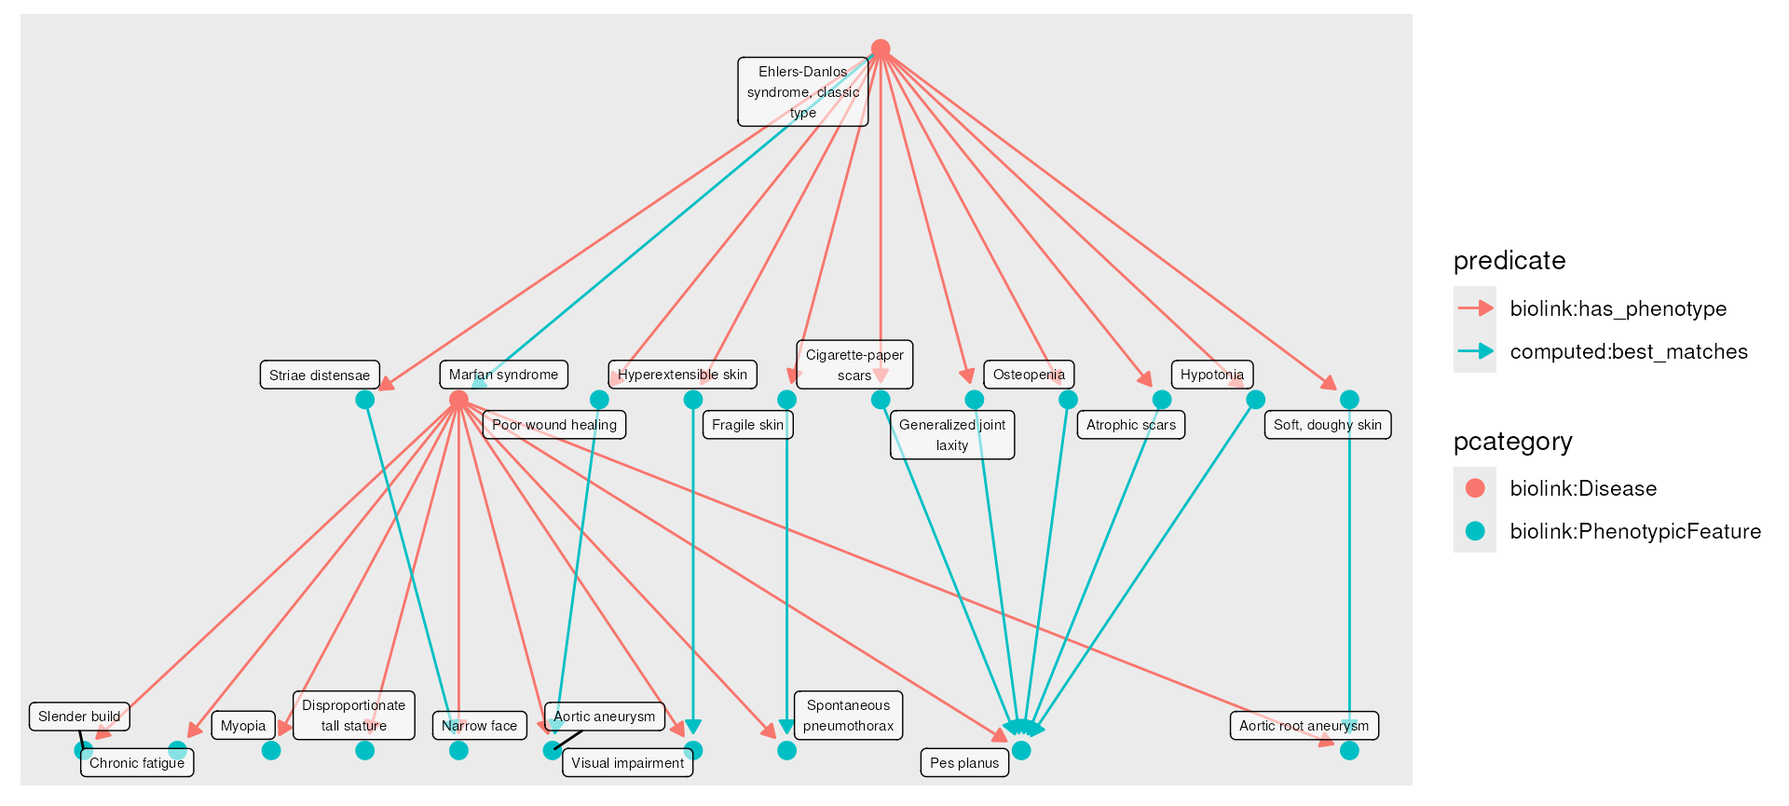
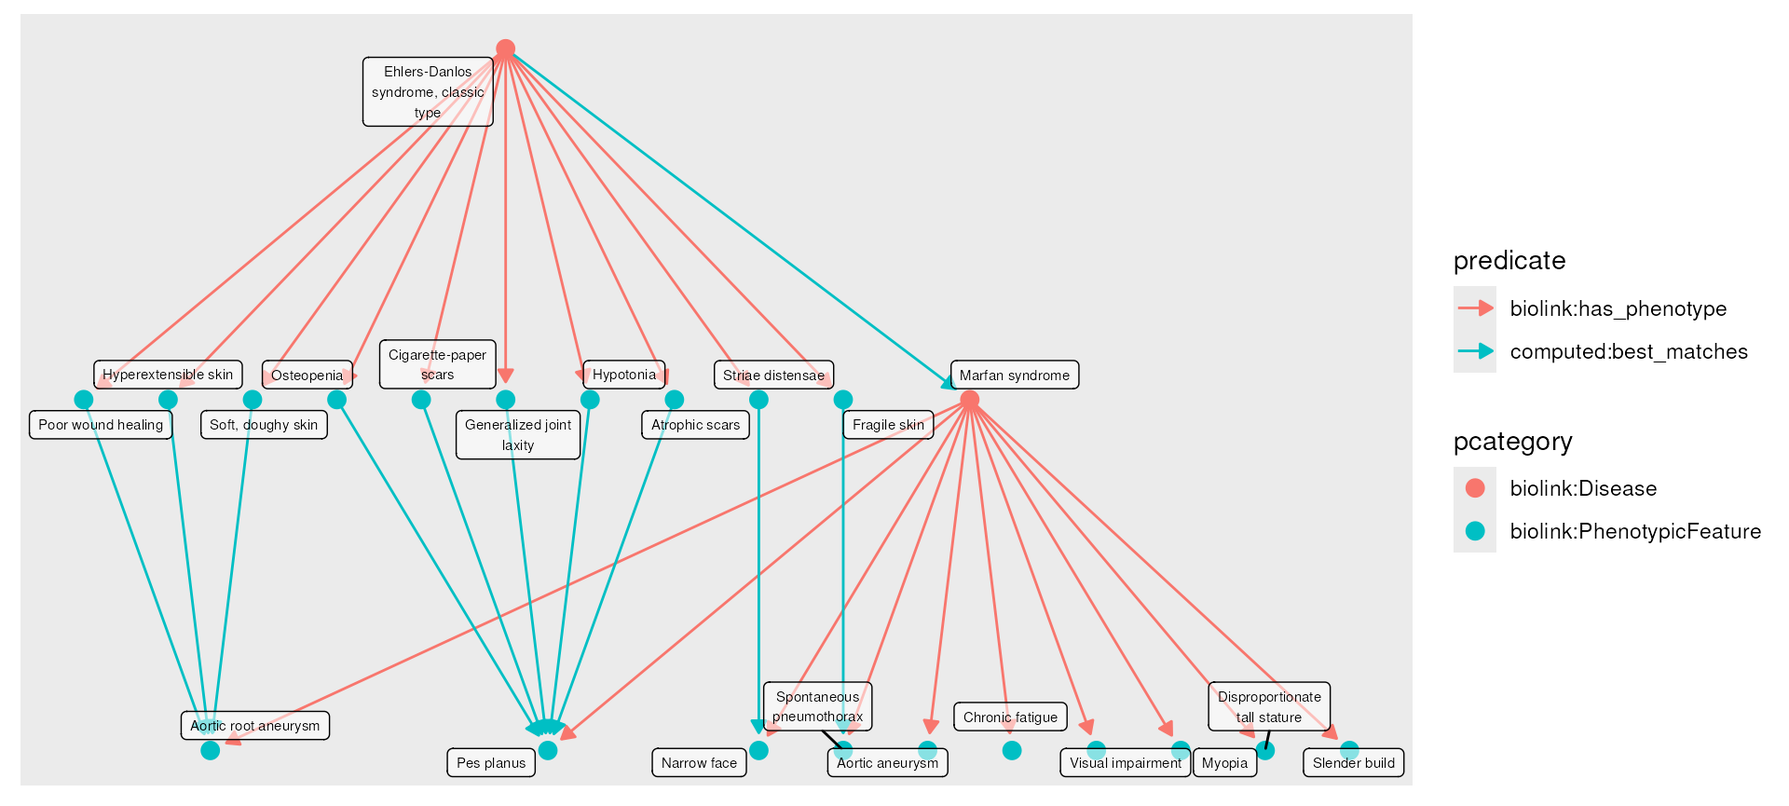
Deploying to gh-pages from @ monarch-initiative/monarchr@0c566622105d5b29ee82648d0202803ad11508b7 🚀

diff --git a/reference/monarch_semsim.html b/reference/monarch_semsim.html
@@ -49,7 +49,7 @@ https://monarchinitiative.org/explore#phenotype-explorer."><!-- mathjax --><scri
   <div class="col-md-9 contents">
     <div class="page-header">
     <h1>Semantic similarity mapping between two graphs</h1>
-    <small class="dont-index">Source: <a href="https://github.com/monarch-initiative/monarchr/blob/engines/R/monarch_semsim.R" class="external-link"><code>R/monarch_semsim.R</code></a></small>
+    <small class="dont-index">Source: <a href="https://github.com/monarch-initiative/monarchr/blob/main/R/monarch_semsim.R" class="external-link"><code>R/monarch_semsim.R</code></a></small>
     <div class="hidden name"><code>monarch_semsim.Rd</code></div>
     </div>
 
@@ -136,11 +136,11 @@ the best matches from the second graph to the first graph.</p>
 <span class="r-msg co"><span class="r-pr">#&gt;</span> Joining with `by = join_by(id, category, pcategory, name, description, synonym,</span>
 <span class="r-msg co"><span class="r-pr">#&gt;</span> iri, xref, namespace, provided_by)`</span>
 <span class="r-in"><span><span class="fu"><a href="https://rdrr.io/r/base/print.html" class="external-link">print</a></span><span class="op">(</span><span class="va">sim</span><span class="op">)</span></span></span>
-<span class="r-out co"><span class="r-pr">#&gt;</span> <span style="color: #949494;"># A tbl_graph: 132 nodes and 106 edges</span></span>
+<span class="r-out co"><span class="r-pr">#&gt;</span> <span style="color: #949494;"># A tbl_graph: 130 nodes and 106 edges</span></span>
 <span class="r-out co"><span class="r-pr">#&gt;</span> <span style="color: #949494;">#</span></span>
-<span class="r-out co"><span class="r-pr">#&gt;</span> <span style="color: #949494;"># A directed multigraph with 38 components</span></span>
+<span class="r-out co"><span class="r-pr">#&gt;</span> <span style="color: #949494;"># A directed multigraph with 36 components</span></span>
 <span class="r-out co"><span class="r-pr">#&gt;</span> <span style="color: #949494;">#</span></span>
-<span class="r-out co"><span class="r-pr">#&gt;</span> <span style="color: #949494;"># Node Data: 132 × 10 (active)</span></span>
+<span class="r-out co"><span class="r-pr">#&gt;</span> <span style="color: #949494;"># Node Data: 130 × 10 (active)</span></span>
 <span class="r-out co"><span class="r-pr">#&gt;</span>    id         pcategory name  description synonym category iri   xref  namespace</span>
 <span class="r-out co"><span class="r-pr">#&gt;</span>    <span style="color: #949494; font-style: italic;">&lt;chr&gt;</span>      <span style="color: #949494; font-style: italic;">&lt;chr&gt;</span>     <span style="color: #949494; font-style: italic;">&lt;chr&gt;</span> <span style="color: #949494; font-style: italic;">&lt;chr&gt;</span>       <span style="color: #949494; font-style: italic;">&lt;named&gt;</span> <span style="color: #949494; font-style: italic;">&lt;list&gt;</span>   <span style="color: #949494; font-style: italic;">&lt;chr&gt;</span> <span style="color: #949494; font-style: italic;">&lt;nam&gt;</span> <span style="color: #949494; font-style: italic;">&lt;chr&gt;</span>    </span>
 <span class="r-out co"><span class="r-pr">#&gt;</span> <span style="color: #BCBCBC;"> 1</span> MONDO:000… biolink:… Marf… A disorder… <span style="color: #949494;">&lt;chr&gt;</span>   <span style="color: #949494;">&lt;chr&gt;</span>    http… <span style="color: #949494;">&lt;chr&gt;</span> MONDO    </span>
@@ -153,15 +153,15 @@ the best matches from the second graph to the first graph.</p>
 <span class="r-out co"><span class="r-pr">#&gt;</span> <span style="color: #BCBCBC;"> 8</span> HP:0012432 biolink:… Chro… Subjective… <span style="color: #949494;">&lt;chr&gt;</span>   <span style="color: #949494;">&lt;chr&gt;</span>    http… <span style="color: #949494;">&lt;chr&gt;</span> HP       </span>
 <span class="r-out co"><span class="r-pr">#&gt;</span> <span style="color: #BCBCBC;"> 9</span> HP:0000275 biolink:… Narr… Bizygomati… <span style="color: #949494;">&lt;chr&gt;</span>   <span style="color: #949494;">&lt;chr&gt;</span>    http… <span style="color: #949494;">&lt;chr&gt;</span> HP       </span>
 <span class="r-out co"><span class="r-pr">#&gt;</span> <span style="color: #BCBCBC;">10</span> HP:0000505 biolink:… Visu… Visual imp… <span style="color: #949494;">&lt;chr&gt;</span>   <span style="color: #949494;">&lt;chr&gt;</span>    http… <span style="color: #949494;">&lt;chr&gt;</span> HP       </span>
-<span class="r-out co"><span class="r-pr">#&gt;</span> <span style="color: #949494;"># ℹ 122 more rows</span></span>
+<span class="r-out co"><span class="r-pr">#&gt;</span> <span style="color: #949494;"># ℹ 120 more rows</span></span>
 <span class="r-out co"><span class="r-pr">#&gt;</span> <span style="color: #949494;"># ℹ 1 more variable: provided_by &lt;named list&gt;</span></span>
 <span class="r-out co"><span class="r-pr">#&gt;</span> <span style="color: #949494;">#</span></span>
 <span class="r-out co"><span class="r-pr">#&gt;</span> <span style="color: #949494;"># Edge Data: 106 × 8</span></span>
 <span class="r-out co"><span class="r-pr">#&gt;</span>    from    to subject    predicate             object   metric score ancestor_id</span>
 <span class="r-out co"><span class="r-pr">#&gt;</span>   <span style="color: #949494; font-style: italic;">&lt;int&gt;</span> <span style="color: #949494; font-style: italic;">&lt;int&gt;</span> <span style="color: #949494; font-style: italic;">&lt;chr&gt;</span>      <span style="color: #949494; font-style: italic;">&lt;chr&gt;</span>                 <span style="color: #949494; font-style: italic;">&lt;chr&gt;</span>    <span style="color: #949494; font-style: italic;">&lt;chr&gt;</span>  <span style="color: #949494; font-style: italic;">&lt;dbl&gt;</span> <span style="color: #949494; font-style: italic;">&lt;chr&gt;</span>      </span>
-<span class="r-out co"><span class="r-pr">#&gt;</span> <span style="color: #BCBCBC;">1</span>   106   125 HP:0000006 computed:best_matches HP:0003… ances…  4.10 HP:0000001 </span>
+<span class="r-out co"><span class="r-pr">#&gt;</span> <span style="color: #BCBCBC;">1</span>   106   128 HP:0000006 computed:best_matches HP:0025… ances…  4.10 HP:0000001 </span>
 <span class="r-out co"><span class="r-pr">#&gt;</span> <span style="color: #BCBCBC;">2</span>    33    33 HP:0000023 computed:best_matches HP:0000… ances… 18.2  HP:0000023 </span>
-<span class="r-out co"><span class="r-pr">#&gt;</span> <span style="color: #BCBCBC;">3</span>    85   114 HP:0000098 computed:best_matches HP:0000… ances…  5.96 UPHENO:006…</span>
+<span class="r-out co"><span class="r-pr">#&gt;</span> <span style="color: #BCBCBC;">3</span>    85   113 HP:0000098 computed:best_matches HP:0000… ances…  5.96 UPHENO:006…</span>
 <span class="r-out co"><span class="r-pr">#&gt;</span> <span style="color: #949494;"># ℹ 103 more rows</span></span>
 <span class="r-in"><span></span></span>
 <span class="r-in"><span><span class="co"># also inclue the unmatched targets</span></span></span>
@@ -192,7 +192,7 @@ the best matches from the second graph to the first graph.</p>
 <span class="r-out co"><span class="r-pr">#&gt;</span> <span style="color: #949494;"># Edge Data: 106 × 8</span></span>
 <span class="r-out co"><span class="r-pr">#&gt;</span>    from    to subject    predicate             object   metric score ancestor_id</span>
 <span class="r-out co"><span class="r-pr">#&gt;</span>   <span style="color: #949494; font-style: italic;">&lt;int&gt;</span> <span style="color: #949494; font-style: italic;">&lt;int&gt;</span> <span style="color: #949494; font-style: italic;">&lt;chr&gt;</span>      <span style="color: #949494; font-style: italic;">&lt;chr&gt;</span>                 <span style="color: #949494; font-style: italic;">&lt;chr&gt;</span>    <span style="color: #949494; font-style: italic;">&lt;chr&gt;</span>  <span style="color: #949494; font-style: italic;">&lt;dbl&gt;</span> <span style="color: #949494; font-style: italic;">&lt;chr&gt;</span>      </span>
-<span class="r-out co"><span class="r-pr">#&gt;</span> <span style="color: #BCBCBC;">1</span>   106   132 HP:0000006 computed:best_matches HP:0001… ances…  4.10 HP:0000001 </span>
+<span class="r-out co"><span class="r-pr">#&gt;</span> <span style="color: #BCBCBC;">1</span>   106   129 HP:0000006 computed:best_matches HP:0001… ances…  4.10 HP:0000001 </span>
 <span class="r-out co"><span class="r-pr">#&gt;</span> <span style="color: #BCBCBC;">2</span>    33    33 HP:0000023 computed:best_matches HP:0000… ances… 18.2  HP:0000023 </span>
 <span class="r-out co"><span class="r-pr">#&gt;</span> <span style="color: #BCBCBC;">3</span>    85   125 HP:0000098 computed:best_matches HP:0000… ances…  5.96 UPHENO:006…</span>
 <span class="r-out co"><span class="r-pr">#&gt;</span> <span style="color: #949494;"># ℹ 103 more rows</span></span>
@@ -204,7 +204,7 @@ the best matches from the second graph to the first graph.</p>
 <span class="r-in"><span><span class="fu"><a href="https://rdrr.io/r/base/print.html" class="external-link">print</a></span><span class="op">(</span><span class="va">sim</span><span class="op">)</span></span></span>
 <span class="r-out co"><span class="r-pr">#&gt;</span> <span style="color: #949494;"># A tbl_graph: 161 nodes and 173 edges</span></span>
 <span class="r-out co"><span class="r-pr">#&gt;</span> <span style="color: #949494;">#</span></span>
-<span class="r-out co"><span class="r-pr">#&gt;</span> <span style="color: #949494;"># A directed multigraph with 27 components</span></span>
+<span class="r-out co"><span class="r-pr">#&gt;</span> <span style="color: #949494;"># A directed multigraph with 28 components</span></span>
 <span class="r-out co"><span class="r-pr">#&gt;</span> <span style="color: #949494;">#</span></span>
 <span class="r-out co"><span class="r-pr">#&gt;</span> <span style="color: #949494;"># Node Data: 161 × 10 (active)</span></span>
 <span class="r-out co"><span class="r-pr">#&gt;</span>    id         pcategory name  description synonym category iri   xref  namespace</span>
@@ -225,7 +225,7 @@ the best matches from the second graph to the first graph.</p>
 <span class="r-out co"><span class="r-pr">#&gt;</span> <span style="color: #949494;"># Edge Data: 173 × 8</span></span>
 <span class="r-out co"><span class="r-pr">#&gt;</span>    from    to subject    predicate             object   metric score ancestor_id</span>
 <span class="r-out co"><span class="r-pr">#&gt;</span>   <span style="color: #949494; font-style: italic;">&lt;int&gt;</span> <span style="color: #949494; font-style: italic;">&lt;int&gt;</span> <span style="color: #949494; font-style: italic;">&lt;chr&gt;</span>      <span style="color: #949494; font-style: italic;">&lt;chr&gt;</span>                 <span style="color: #949494; font-style: italic;">&lt;chr&gt;</span>    <span style="color: #949494; font-style: italic;">&lt;chr&gt;</span>  <span style="color: #949494; font-style: italic;">&lt;dbl&gt;</span> <span style="color: #949494; font-style: italic;">&lt;chr&gt;</span>      </span>
-<span class="r-out co"><span class="r-pr">#&gt;</span> <span style="color: #BCBCBC;">1</span>   106   128 HP:0000006 computed:best_matches HP:0000… ances…  4.10 HP:0000001 </span>
+<span class="r-out co"><span class="r-pr">#&gt;</span> <span style="color: #BCBCBC;">1</span>   106   131 HP:0000006 computed:best_matches HP:0001… ances…  4.10 HP:0000001 </span>
 <span class="r-out co"><span class="r-pr">#&gt;</span> <span style="color: #BCBCBC;">2</span>    33    33 HP:0000023 computed:best_matches HP:0000… ances… 18.2  HP:0000023 </span>
 <span class="r-out co"><span class="r-pr">#&gt;</span> <span style="color: #BCBCBC;">3</span>    85   125 HP:0000098 computed:best_matches HP:0000… ances…  5.96 UPHENO:006…</span>
 <span class="r-out co"><span class="r-pr">#&gt;</span> <span style="color: #949494;"># ℹ 170 more rows</span></span>

diff --git a/articles/monarchr.html b/articles/monarchr.html
@@ -78,7 +78,7 @@ O’Neil</h4>
 Vignette updated: <i>Jul-22-2024</i><br>
 </h4></h4>
       
-      <small class="dont-index">Source: <a href="https://github.com/monarch-initiative/monarchr/blob/engines/vignettes/monarchr.Rmd" class="external-link"><code>vignettes/monarchr.Rmd</code></a></small>
+      <small class="dont-index">Source: <a href="https://github.com/monarch-initiative/monarchr/blob/main/vignettes/monarchr.Rmd" class="external-link"><code>vignettes/monarchr.Rmd</code></a></small>
       <div class="hidden name"><code>monarchr.Rmd</code></div>
 
     </div>
@@ -5774,7 +5774,7 @@ containing only computed <code>"computed:best_matches"</code> edges:</p>
 <div class="section level4">
 <h4 id="nodes-6">Nodes<a class="anchor" aria-label="anchor" href="#nodes-6"></a>
 </h4>
-Showing 18 of 18 nodes:
+Showing 16 of 16 nodes:
 <div style="max-height: 400px;overflow-y: auto;border-left: 1px solid #ddd;border-right:  1px solid #ddd;border-bottom: 1px solid #ddd;">
 <table class="table table table-striped table-hover table-condensed" style="margin-left: auto; margin-right: auto;">
 <thead><tr>
@@ -6385,48 +6385,6 @@ c(“SNOMEDCT_US:251036003”, “UMLS:C0238669”)
 </tr>
 <tr>
 <td style="text-align:left;">
-“HP:0004942”
-</td>
-<td style="text-align:left;">
-“biolink:PhenotypicFeature”
-</td>
-<td style="text-align:left;">
-“Aortic aneurysm”
-</td>
-<td style="text-align:left;min-width: 300px; ">
-“Aortic dilatation refers to a dimension that is greater than the 95th
-percentile for the normal person age, sex and body size. In contrast, an
-aneurysm is defined as a localized dilation of the aorta that is more
-than 150 percent of predicted (ratio of observed to expected diameter
-1.5 or more). Aneurysm should be distinguished from ectasia, which
-represents a diffuse dilation of the aorta less than 50 percent of
-normal aorta diameter.”
-</td>
-<td style="text-align:left;min-width: 300px; ">
-c(“Aortic dilatation”, “Bulge in wall of large artery that carries blood
-away from heart”)
-</td>
-<td style="text-align:left;">
-c(“biolink:BiologicalEntity”, “biolink:DiseaseOrPhenotypicFeature”,
-“biolink:Entity”, “biolink:NamedThing”, “biolink:PhenotypicFeature”,
-“biolink:ThingWithTaxon”)
-</td>
-<td style="text-align:left;">
-“<a href="http://purl.obolibrary.org/obo/HP_0004942" class="external-link uri">http://purl.obolibrary.org/obo/HP_0004942</a>”
-</td>
-<td style="text-align:left;">
-c(“Fyler:2301”, “Fyler:2708”, “MSH:D001014”, “SNOMEDCT_US:67362008”,
-“UMLS:C0003486”)
-</td>
-<td style="text-align:left;">
-“HP”
-</td>
-<td style="text-align:left;">
-“phenio_nodes”
-</td>
-</tr>
-<tr>
-<td style="text-align:left;">
 “HP:0000275”
 </td>
 <td style="text-align:left;">
@@ -6458,48 +6416,6 @@ c(“biolink:BiologicalEntity”, “biolink:DiseaseOrPhenotypicFeature”,
 </td>
 <td style="text-align:left;">
 c(“UMLS:C1837463”, “UMLS:C1849121”)
-</td>
-<td style="text-align:left;">
-“HP”
-</td>
-<td style="text-align:left;">
-“phenio_nodes”
-</td>
-</tr>
-<tr>
-<td style="text-align:left;">
-“HP:0000505”
-</td>
-<td style="text-align:left;">
-“biolink:PhenotypicFeature”
-</td>
-<td style="text-align:left;">
-“Visual impairment”
-</td>
-<td style="text-align:left;min-width: 300px; ">
-“Visual impairment (or vision impairment) is vision loss (of a person)
-to such a degree as to qualify as an additional support need through a
-significant limitation of visual capability resulting from either
-disease, trauma, or congenital or degenerative conditions that cannot be
-corrected by conventional means, such as refractive correction,
-medication, or surgery.”
-</td>
-<td style="text-align:left;min-width: 300px; ">
-c(“Impaired vision”, “Loss of eyesight”, “Poor vision”, “Visual
-impairment”)
-</td>
-<td style="text-align:left;">
-c(“biolink:BiologicalEntity”, “biolink:DiseaseOrPhenotypicFeature”,
-“biolink:Entity”, “biolink:NamedThing”, “biolink:PhenotypicFeature”,
-“biolink:ThingWithTaxon”)
-</td>
-<td style="text-align:left;">
-“<a href="http://purl.obolibrary.org/obo/HP_0000505" class="external-link uri">http://purl.obolibrary.org/obo/HP_0000505</a>”
-</td>
-<td style="text-align:left;">
-c(“MSH:D014786”, “MSH:D015354”, “SNOMEDCT_US:246635007”,
-“SNOMEDCT_US:397540003”, “SNOMEDCT_US:7973008”, “UMLS:C0042798”,
-“UMLS:C3665347”)
 </td>
 <td style="text-align:left;">
 “HP”
@@ -6576,7 +6492,7 @@ ancestor_id
 2
 </td>
 <td style="text-align:left;">
-18
+15
 </td>
 <td style="text-align:left;">
 “HP:0000974”
@@ -6585,7 +6501,7 @@ ancestor_id
 “computed:best_matches”
 </td>
 <td style="text-align:left;">
-“HP:0000505”
+“HP:0002616”
 </td>
 <td style="text-align:left;">
 “ancestor_information_content”
@@ -6654,7 +6570,7 @@ ancestor_id
 10
 </td>
 <td style="text-align:left;">
-16
+15
 </td>
 <td style="text-align:left;">
 “HP:0001058”
@@ -6663,7 +6579,7 @@ ancestor_id
 “computed:best_matches”
 </td>
 <td style="text-align:left;">
-“HP:0004942”
+“HP:0002616”
 </td>
 <td style="text-align:left;">
 “ancestor_information_content”
@@ -6680,7 +6596,7 @@ ancestor_id
 5
 </td>
 <td style="text-align:left;">
-17
+16
 </td>
 <td style="text-align:left;">
 “HP:0001065”

diff --git a/reference/monarch_engine.html b/reference/monarch_engine.html
@@ -48,7 +48,7 @@ graph objects."><!-- mathjax --><script src="https://cdnjs.cloudflare.com/ajax/l
   <div class="col-md-9 contents">
     <div class="page-header">
     <h1>Create a knowledge graph engine object backed by the public Monarch Neo4j instance</h1>
-    <small class="dont-index">Source: <a href="https://github.com/monarch-initiative/monarchr/blob/engines/R/monarch_engine.R" class="external-link"><code>R/monarch_engine.R</code></a></small>
+    <small class="dont-index">Source: <a href="https://github.com/monarch-initiative/monarchr/blob/main/R/monarch_engine.R" class="external-link"><code>R/monarch_engine.R</code></a></small>
     <div class="hidden name"><code>monarch_engine.Rd</code></div>
     </div>
 

diff --git a/reference/summarize_neighborhood.html b/reference/summarize_neighborhood.html
@@ -51,7 +51,7 @@ graph's collective neighborhood in the larger KG."><!-- mathjax --><script src="
   <div class="col-md-9 contents">
     <div class="page-header">
     <h1>Summarize neighborhood</h1>
-    <small class="dont-index">Source: <a href="https://github.com/monarch-initiative/monarchr/blob/engines/R/summarize_neighborhood.R" class="external-link"><code>R/summarize_neighborhood.R</code></a></small>
+    <small class="dont-index">Source: <a href="https://github.com/monarch-initiative/monarchr/blob/main/R/summarize_neighborhood.R" class="external-link"><code>R/summarize_neighborhood.R</code></a></small>
     <div class="hidden name"><code>summarize_neighborhood.Rd</code></div>
     </div>
 

diff --git a/reference/monarch_search.html b/reference/monarch_search.html
@@ -49,7 +49,7 @@ It returns nodes (no edges) from the Monarch KG, fetched via an instance of mona
   <div class="col-md-9 contents">
     <div class="page-header">
     <h1>Search for KG nodes using the Monarch Initiative search API</h1>
-    <small class="dont-index">Source: <a href="https://github.com/monarch-initiative/monarchr/blob/engines/R/monarch_search.R" class="external-link"><code>R/monarch_search.R</code></a></small>
+    <small class="dont-index">Source: <a href="https://github.com/monarch-initiative/monarchr/blob/main/R/monarch_search.R" class="external-link"><code>R/monarch_search.R</code></a></small>
     <div class="hidden name"><code>monarch_search.Rd</code></div>
     </div>
 

diff --git a/reference/stitch_vectors.html b/reference/stitch_vectors.html
@@ -50,7 +50,7 @@ scalar strings"><!-- mathjax --><script src="https://cdnjs.cloudflare.com/ajax/l
   <div class="col-md-9 contents">
     <div class="page-header">
     <h1>Stitch Vectors</h1>
-    <small class="dont-index">Source: <a href="https://github.com/monarch-initiative/monarchr/blob/engines/R/cypher_query.neo4j_engine.R" class="external-link"><code>R/cypher_query.neo4j_engine.R</code></a></small>
+    <small class="dont-index">Source: <a href="https://github.com/monarch-initiative/monarchr/blob/main/R/cypher_query.neo4j_engine.R" class="external-link"><code>R/cypher_query.neo4j_engine.R</code></a></small>
     <div class="hidden name"><code>stitch_vectors.Rd</code></div>
     </div>
 

diff --git a/reference/normalize_categories.html b/reference/normalize_categories.html
@@ -48,7 +48,7 @@ It selects the most preferred category from each vector, or the first category i
   <div class="col-md-9 contents">
     <div class="page-header">
     <h1>Normalize Categories</h1>
-    <small class="dont-index">Source: <a href="https://github.com/monarch-initiative/monarchr/blob/engines/R/normalize_categories.R" class="external-link"><code>R/normalize_categories.R</code></a></small>
+    <small class="dont-index">Source: <a href="https://github.com/monarch-initiative/monarchr/blob/main/R/normalize_categories.R" class="external-link"><code>R/normalize_categories.R</code></a></small>
     <div class="hidden name"><code>normalize_categories.Rd</code></div>
     </div>
 

diff --git a/reference/neo4j_engine.html b/reference/neo4j_engine.html
@@ -49,7 +49,7 @@ graph objects.'><!-- mathjax --><script src="https://cdnjs.cloudflare.com/ajax/l
   <div class="col-md-9 contents">
     <div class="page-header">
     <h1>Create a knowledge graph engine object for a neo4j database</h1>
-    <small class="dont-index">Source: <a href="https://github.com/monarch-initiative/monarchr/blob/engines/R/neo4j_engine.R" class="external-link"><code>R/neo4j_engine.R</code></a></small>
+    <small class="dont-index">Source: <a href="https://github.com/monarch-initiative/monarchr/blob/main/R/neo4j_engine.R" class="external-link"><code>R/neo4j_engine.R</code></a></small>
     <div class="hidden name"><code>neo4j_engine.Rd</code></div>
     </div>
 

diff --git a/reference/fetch_nodes.html b/reference/fetch_nodes.html
@@ -51,7 +51,7 @@ set of condition expressions are supported, see details."><!-- mathjax --><scrip
   <div class="col-md-9 contents">
     <div class="page-header">
     <h1>Fetch nodes from a graph using a set of IDs or conditions</h1>
-    <small class="dont-index">Source: <a href="https://github.com/monarch-initiative/monarchr/blob/engines/R/fetch_nodes.R" class="external-link"><code>R/fetch_nodes.R</code></a></small>
+    <small class="dont-index">Source: <a href="https://github.com/monarch-initiative/monarchr/blob/main/R/fetch_nodes.R" class="external-link"><code>R/fetch_nodes.R</code></a></small>
     <div class="hidden name"><code>fetch_nodes.Rd</code></div>
     </div>
 

diff --git a/reference/grapes-in_list-grapes.html b/reference/grapes-in_list-grapes.html
@@ -48,7 +48,7 @@ that this is different than %in% which does not work with list columns in a natu
   <div class="col-md-9 contents">
     <div class="page-header">
     <h1>Check if an element is contained in list sub-elements</h1>
-    <small class="dont-index">Source: <a href="https://github.com/monarch-initiative/monarchr/blob/engines/R/in_list.R" class="external-link"><code>R/in_list.R</code></a></small>
+    <small class="dont-index">Source: <a href="https://github.com/monarch-initiative/monarchr/blob/main/R/in_list.R" class="external-link"><code>R/in_list.R</code></a></small>
     <div class="hidden name"><code>grapes-in_list-grapes.Rd</code></div>
     </div>
 

diff --git a/reference/expand.html b/reference/expand.html
@@ -50,7 +50,7 @@ engine is used; if the first parameter is a query graph, the most recent engine 
   <div class="col-md-9 contents">
     <div class="page-header">
     <h1>Fetch additional knowledge graph edges connected to a query graph</h1>
-    <small class="dont-index">Source: <a href="https://github.com/monarch-initiative/monarchr/blob/engines/R/expand.R" class="external-link"><code>R/expand.R</code></a></small>
+    <small class="dont-index">Source: <a href="https://github.com/monarch-initiative/monarchr/blob/main/R/expand.R" class="external-link"><code>R/expand.R</code></a></small>
     <div class="hidden name"><code>expand.Rd</code></div>
     </div>
 

diff --git a/reference/knit_print.tbl_kgx.html b/reference/knit_print.tbl_kgx.html
@@ -47,7 +47,7 @@
   <div class="col-md-9 contents">
     <div class="page-header">
     <h1>Specialized print function for KGX graphs in knitted documents</h1>
-    <small class="dont-index">Source: <a href="https://github.com/monarch-initiative/monarchr/blob/engines/R/knit_print.tbl_kgx.R" class="external-link"><code>R/knit_print.tbl_kgx.R</code></a></small>
+    <small class="dont-index">Source: <a href="https://github.com/monarch-initiative/monarchr/blob/main/R/knit_print.tbl_kgx.R" class="external-link"><code>R/knit_print.tbl_kgx.R</code></a></small>
     <div class="hidden name"><code>knit_print.tbl_kgx.Rd</code></div>
     </div>
 
